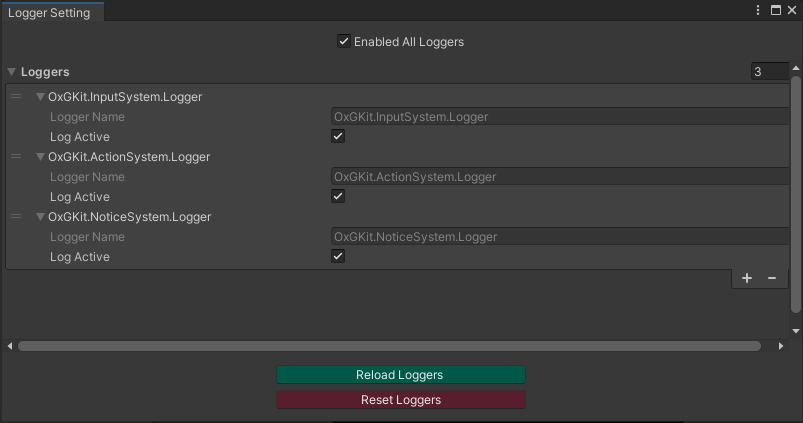
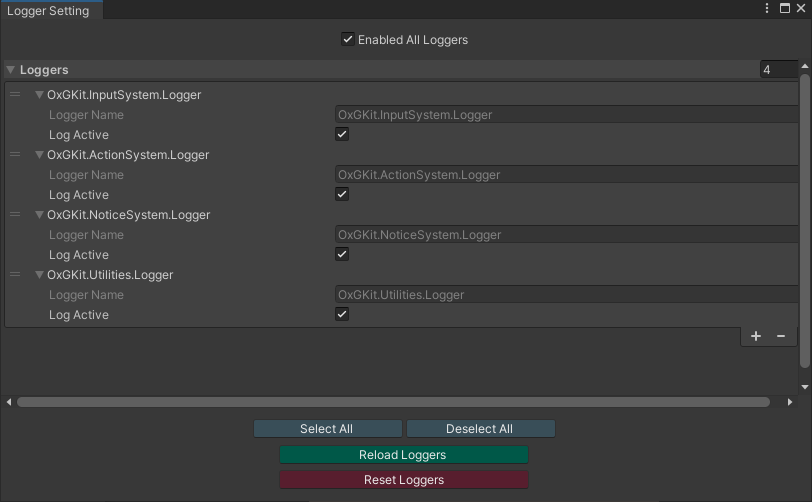
updated OxGKit.LoggingSystem to v0.0.11-preivew

diff --git a/Assets/OxGKit/LoggingSystem/Scripts/Editor/EditorWindow/LoggerSettingWindow.cs b/Assets/OxGKit/LoggingSystem/Scripts/Editor/EditorWindow/LoggerSettingWindow.cs
@@ -76,7 +76,7 @@ namespace OxGKit.LoggingSystem.Editor
             if (EditorGUI.EndChangeCheck())
             {
                 this._setting.logMainActive = this.logMainActive;
-                EditorUtility.SetDirty(this);
+                EditorUtility.SetDirty(this._setting);
                 AssetDatabase.SaveAssets();
             }
             GUILayout.FlexibleSpace();
@@ -92,17 +92,50 @@ namespace OxGKit.LoggingSystem.Editor
             if (EditorGUI.EndChangeCheck())
             {
                 this._serObj.ApplyModifiedProperties();
-                EditorUtility.SetDirty(this);
+                EditorUtility.SetDirty(this._setting);
                 AssetDatabase.SaveAssets();
             }
             EditorGUILayout.EndScrollView();
 
             EditorGUILayout.Space(10f);
 
-            // Refresh and Load button
+            // Select all button
             EditorGUILayout.BeginHorizontal();
             GUILayout.FlexibleSpace();
             Color bc = GUI.backgroundColor;
+            GUI.backgroundColor = new Color32(164, 227, 255, 255);
+            if (GUILayout.Button("Select All", GUILayout.MaxWidth(150f)))
+            {
+                foreach (var logger in this.loggers)
+                {
+                    logger.logActive = true;
+                }
+                EditorUtility.SetDirty(this._setting);
+                AssetDatabase.SaveAssets();
+            }
+            GUI.backgroundColor = bc;
+            // Deselect all button
+            bc = GUI.backgroundColor;
+            GUI.backgroundColor = new Color32(164, 227, 255, 255);
+            if (GUILayout.Button("Deselect All", GUILayout.MaxWidth(150f)))
+            {
+                foreach (var logger in this.loggers)
+                {
+                    logger.logActive = false;
+                }
+                EditorUtility.SetDirty(this._setting);
+                AssetDatabase.SaveAssets();
+            }
+            GUI.backgroundColor = bc;
+            GUILayout.FlexibleSpace();
+            EditorGUILayout.EndHorizontal();
+
+            EditorGUILayout.Space(2.5f);
+
+            // Refresh and Load button
+            EditorGUILayout.BeginHorizontal();
+            GUILayout.FlexibleSpace();
+            bc = GUI.backgroundColor;
             GUI.backgroundColor = new Color32(0, 255, 209, 255);
             if (GUILayout.Button("Reload Loggers", GUILayout.MaxWidth(250f)))
             {
@@ -112,7 +145,7 @@ namespace OxGKit.LoggingSystem.Editor
             GUILayout.FlexibleSpace();
             EditorGUILayout.EndHorizontal();
 
-            EditorGUILayout.Space(2.5f);
+            EditorGUILayout.Space(2f);
 
             // Reset button
             EditorGUILayout.BeginHorizontal();

diff --git a/Assets/OxGKit/LoggingSystem/Scripts/Editor/EditorWindow/LoggingLauncherEditor.cs b/Assets/OxGKit/LoggingSystem/Scripts/Editor/EditorWindow/LoggingLauncherEditor.cs
@@ -26,6 +26,7 @@ namespace OxGKit.LoggingSystem.Editor
 
             var setting = this._target.loggerSetting;
 
+            // Draw Runtime reload setting button
             if (setting != null)
             {
                 EditorGUILayout.Space(20);
@@ -51,6 +52,7 @@ namespace OxGKit.LoggingSystem.Editor
                 EditorGUILayout.Space(20);
             }
 
+            // Draw setting on inspector
             EditorGUI.BeginChangeCheck();
             if (setting != null)
             {
@@ -63,6 +65,46 @@ namespace OxGKit.LoggingSystem.Editor
             {
                 if (Application.isPlaying) this._isDirty = true;
                 serializedObject.ApplyModifiedProperties();
+                EditorUtility.SetDirty(setting);
+                AssetDatabase.SaveAssets();
+            }
+
+            // Draw select all and deselect all buttons
+            {
+                EditorGUILayout.Space(2.5f);
+
+                // Select all button
+                EditorGUILayout.BeginHorizontal();
+                GUILayout.FlexibleSpace();
+                Color bc = GUI.backgroundColor;
+                GUI.backgroundColor = new Color32(164, 227, 255, 255);
+                if (GUILayout.Button("Select All", GUILayout.MaxWidth(150f)))
+                {
+                    foreach (var logger in this._target.loggerSetting.loggerConfigs)
+                    {
+                        logger.logActive = true;
+                    }
+                    if (Application.isPlaying) this._isDirty = true;
+                    EditorUtility.SetDirty(setting);
+                    AssetDatabase.SaveAssets();
+                }
+                GUI.backgroundColor = bc;
+                // Deselect all button
+                bc = GUI.backgroundColor;
+                GUI.backgroundColor = new Color32(164, 227, 255, 255);
+                if (GUILayout.Button("Deselect All", GUILayout.MaxWidth(150f)))
+                {
+                    foreach (var logger in this._target.loggerSetting.loggerConfigs)
+                    {
+                        logger.logActive = false;
+                    }
+                    if (Application.isPlaying) this._isDirty = true;
+                    EditorUtility.SetDirty(setting);
+                    AssetDatabase.SaveAssets();
+                }
+                GUI.backgroundColor = bc;
+                GUILayout.FlexibleSpace();
+                EditorGUILayout.EndHorizontal();
             }
         }
 

diff --git a/Assets/OxGKit/LoggingSystem/Scripts/CHANGELOG.md b/Assets/OxGKit/LoggingSystem/Scripts/CHANGELOG.md
@@ -1,5 +1,9 @@
 ## CHANGELOG
 
+## [0.0.11-preview] - 2023-12-18
+- Added Select all and Deselect all buttons on editor inspector.
+- Fixed Logging editor dirty bug issue.
+
 ## [0.0.10-preview] - 2023-10-27
 - Modified log message type (string change to object).
 
